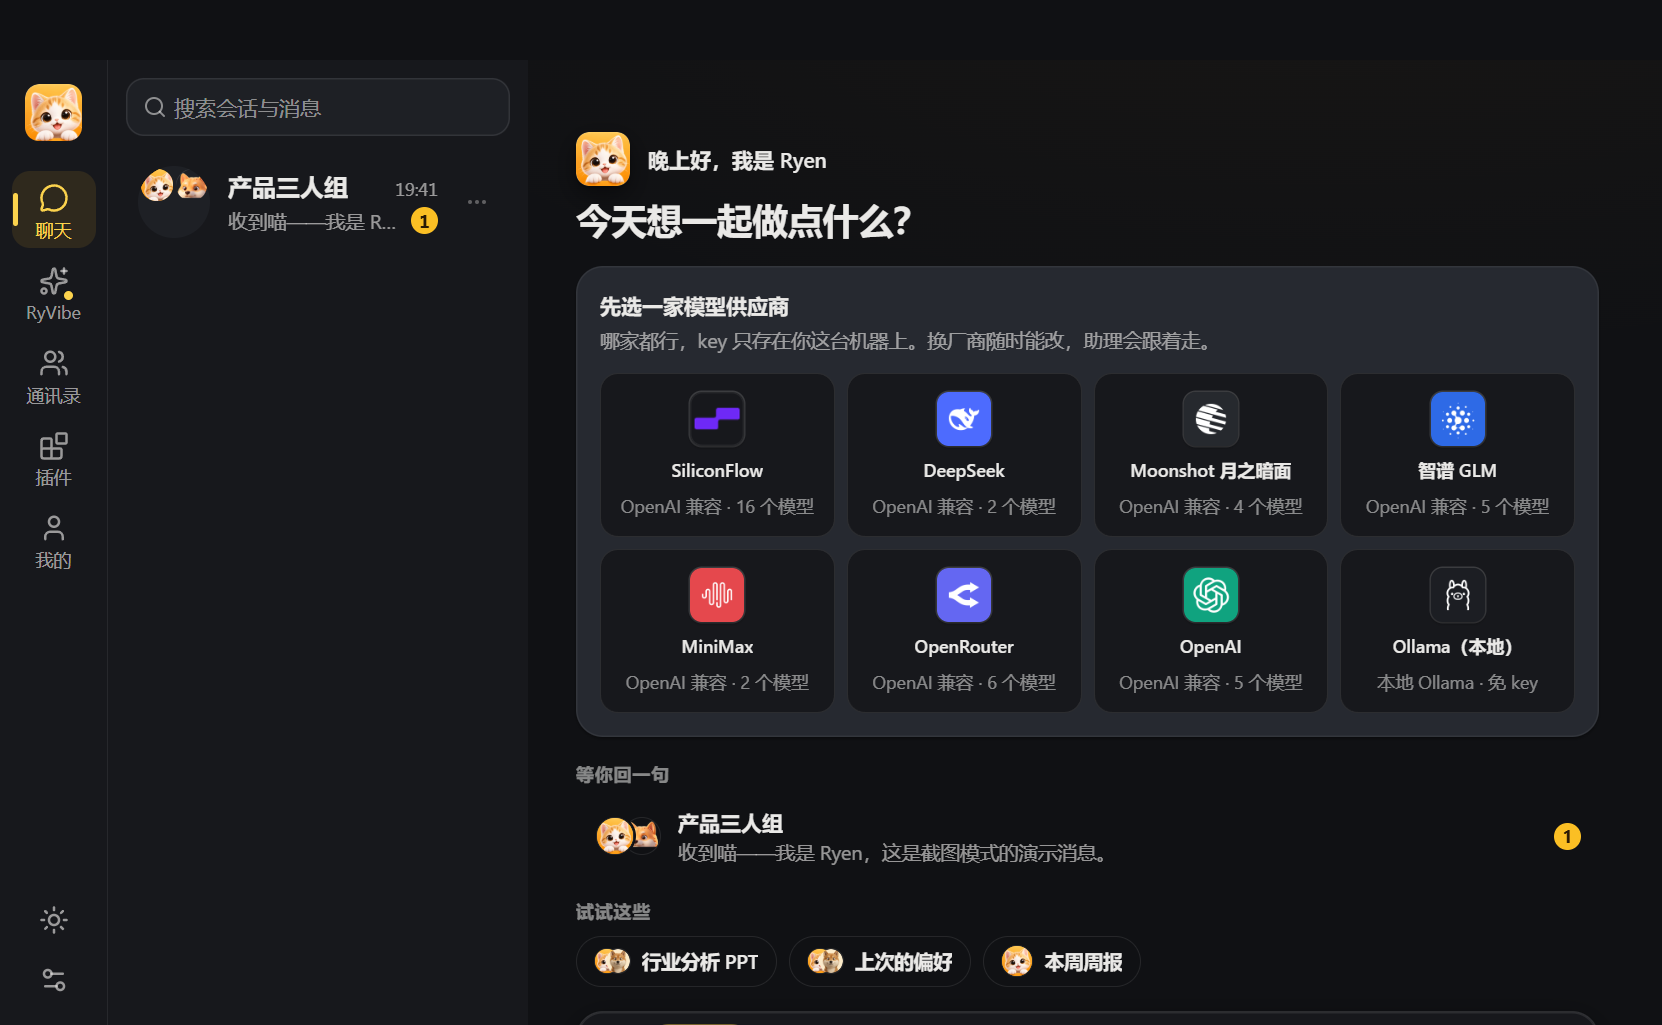
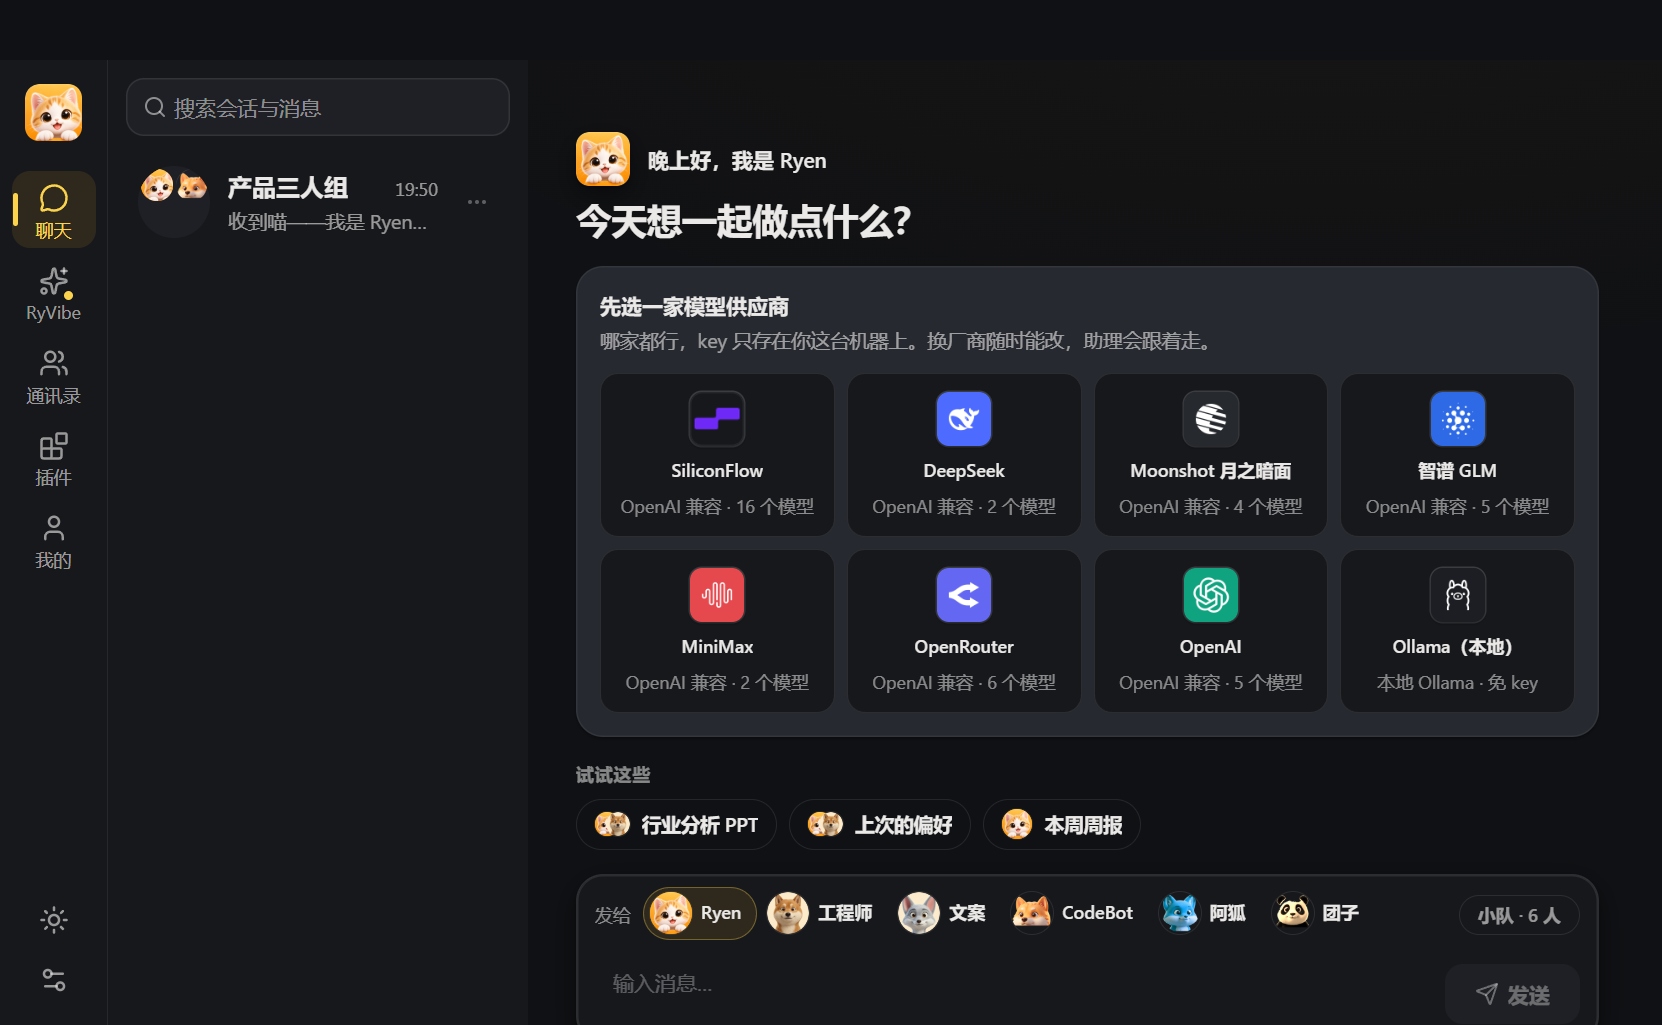
聊天页实拍 + 修 .gitignore 漏网的一次性图（本地）
docs 里此前只有首页——这个产品最要紧的一屏（聊起来是什么样）一直没有像素证据，评审与文档只能对着首页想象对话长什么样。截图脚本现在会点开列表里的第一条会话，拍下真正有对话的那一屏（气泡、工具行、输入区），浅色暗色各一张。

顺带修一个真问题：.gitignore 里的一次性截图是**按文件名逐个列**的，于是 capture-plugins.png / capture-chat.png 这类新加的没被规则盖住，随一次 git add -A 混进了仓库。改成通配（apps/desktop/capture*.png / dark-capture*.png），正式画面在 docs/ 里不受影响。

验证：服务端 380 + 桌面端 1304 + 其余包 576 = 2260 个用例分包全绿 / typecheck 绿 / biome 绿 / 六道门禁绿。

diff --git a/apps/desktop/electron/capture.ts b/apps/desktop/electron/capture.ts
@@ -239,6 +239,28 @@ export async function runCapture(
     writeFileSync(join(docsDir, shot.file), image.toPNG())
     console.log(`[capture] saved ${shot.file}（${shot.theme}）`)
 
+    // 真正有对话的那一屏：气泡、工具行、输入区。
+    // 此前 docs 里只有**首页**——这个产品最要紧的一屏（聊起来是什么样）反而没有
+    // 像素证据，评审与文档都只能对着首页想象对话长什么样。
+    const opened = await window.webContents.executeJavaScript(
+      `(() => {
+        const item = document.querySelector('.conversation-item-main')
+        if (!item) return false
+        item.click()
+        return true
+      })()`,
+    )
+    if (opened === true) {
+      await new Promise((resolve) => {
+        return setTimeout(resolve, SETTLE_MS)
+      })
+      const chatImage = await window.webContents.capturePage()
+      const chatFile = shot.file.replace(/\.png$/, '-chat.png')
+      writeFileSync(join(here, chatFile), chatImage.toPNG())
+      writeFileSync(join(docsDir, chatFile), chatImage.toPNG())
+      console.log(`[capture] saved ${chatFile}（${shot.theme}）`)
+    }
+
     // 切到通讯录：按**名字**点页签，不按下标。
     // 下标会随页签增减而错位——RyVibe 插进聊天下面那一次，就把「我的」拍成了插件页，
     // 而图上看不出错（插件页也挺好看的），只有对着清单才发现少了一屏。

diff --git a/apps/desktop/README.md b/apps/desktop/README.md
@@ -220,11 +220,13 @@ Toast、骨架屏、ChatStore 事件折叠、REST/WS 客户端。由**仓库根*
 - `redesign4-03-create-agent.png`：模板建 Agent（人设/模型/工具白名单）。
 - `redesign4-04-group.png`：群聊（接力链、成员网格、调度轨迹，根 README 头图取本页）。
 - `capture-contacts.png`：通讯录（**照片级 3D 渲染的动物形象**——球面光照 + 厚度，鼠标移上去会跟着转头）。
+- `capture-chat.png`：**真正有对话的那一屏**（气泡、工具行、输入区）——此前 docs 里只有首页，
+  聊起来是什么样一直没有像素证据。
 - `capture-me.png`：「我的」页（用户自己的立体形象 + 动物 × 毛色定制面板）。
 - `capture-providers.png`：模型供应商的「先挑一家」网格（厂商由用户挑，不替他定）。
 - `capture-plugins.png`：插件页（分组、内置插件的说明、开关与展开详情）。
 - `review-studio.png`：「我的形象」定制面板全貌（动物 × 毛色两个选择器；巡检模式 `RYHARNESS_REVIEW=1` 拍的）。
-- `dark-capture-contacts.png` / `dark-capture-me.png` / `dark-capture-plugins.png`：上面几页的暗色版。
+- `dark-capture-contacts.png` / `dark-capture-me.png` / `dark-capture-plugins.png` / `dark-capture-chat.png`：上面几页的暗色版。
 
 重新截取请用 `scripts/capture-window.ps1`（只截窗口矩形，抓到纯色废帧会 exit 1），
 或 `pnpm --filter @ryharness/desktop capture`（Electron 内部 `capturePage`，窗口内画面）。

diff --git a/CHANGELOG.md b/CHANGELOG.md
@@ -27,6 +27,9 @@
   气泡（正在说）、打字行与小队面板（正在想）、小队面板里其余成员（在听，极浅的呼吸
   当底噪）、资料页与身份卡（呼吸）、通讯录里正在出声的那位（正在说）、指针停在卡片上
   （打招呼）。24–40px 的头像幅度自动打折（同样 1.5px，在 24px 上是整张脸在抖）。
+- **聊天页也有实拍了**（`capture-chat.png` / `dark-capture-chat.png`）：此前 docs 里
+  只有**首页**——这个产品最要紧的一屏（聊起来是什么样）反而没有像素证据，评审与文档
+  只能对着首页想象对话长什么样。
 - **二级页面的 UI/UX 重做一轮**（主页与聊天页不动）：把「通讯录 + 身份卡」「模型供应商」
   「插件」「我的 + 形象工作室」「右侧信息板 + 记忆」五条线拆开并行改，各改各的文件，
   互不踩同一段 CSS（每条线一份自己的样式文件，按 import 顺序后者覆盖前者）。改的方向
